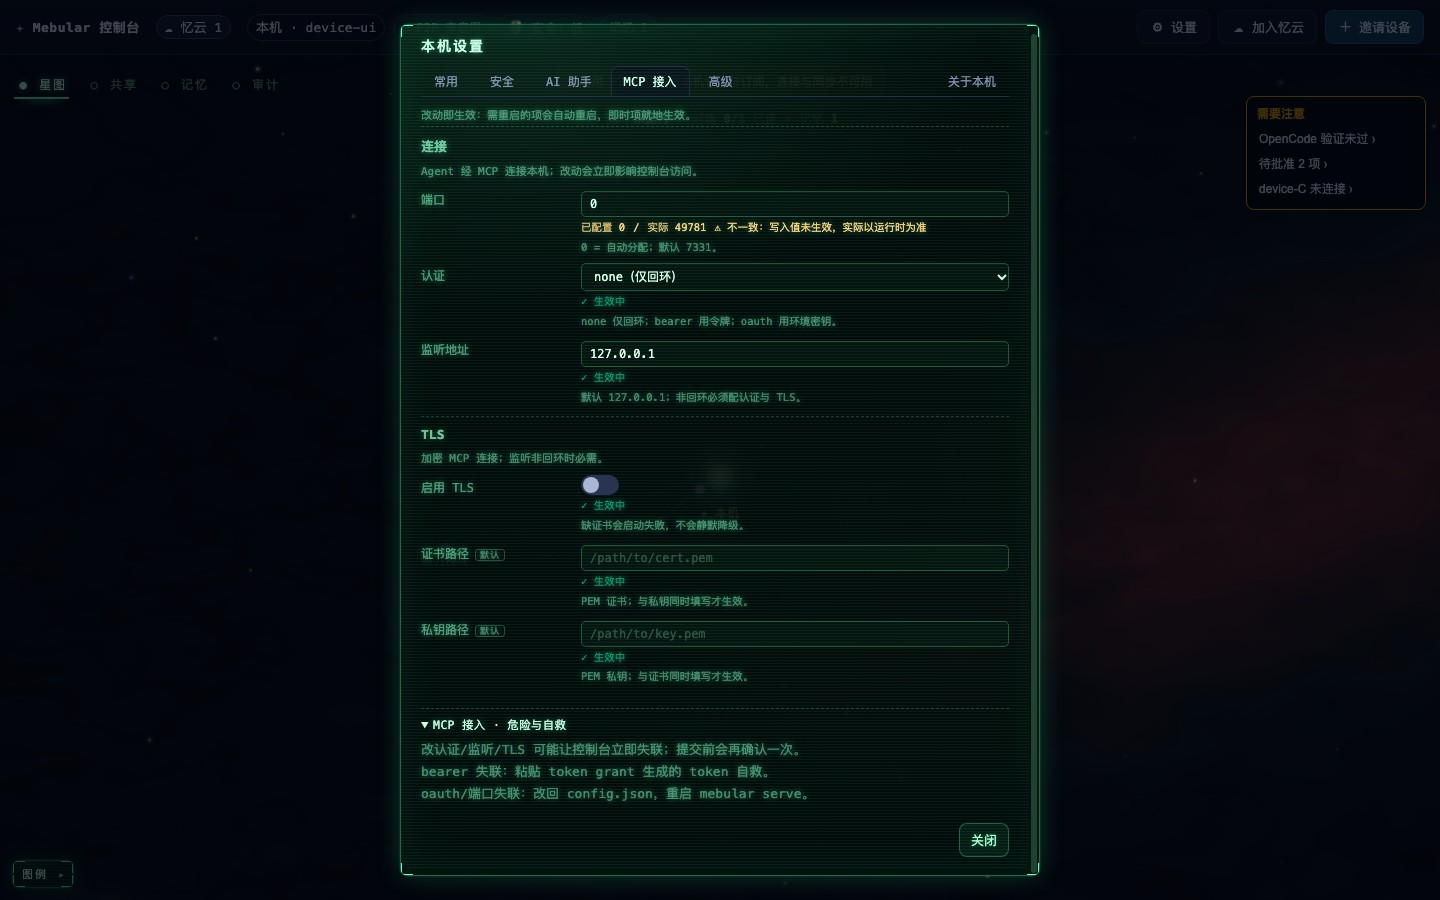
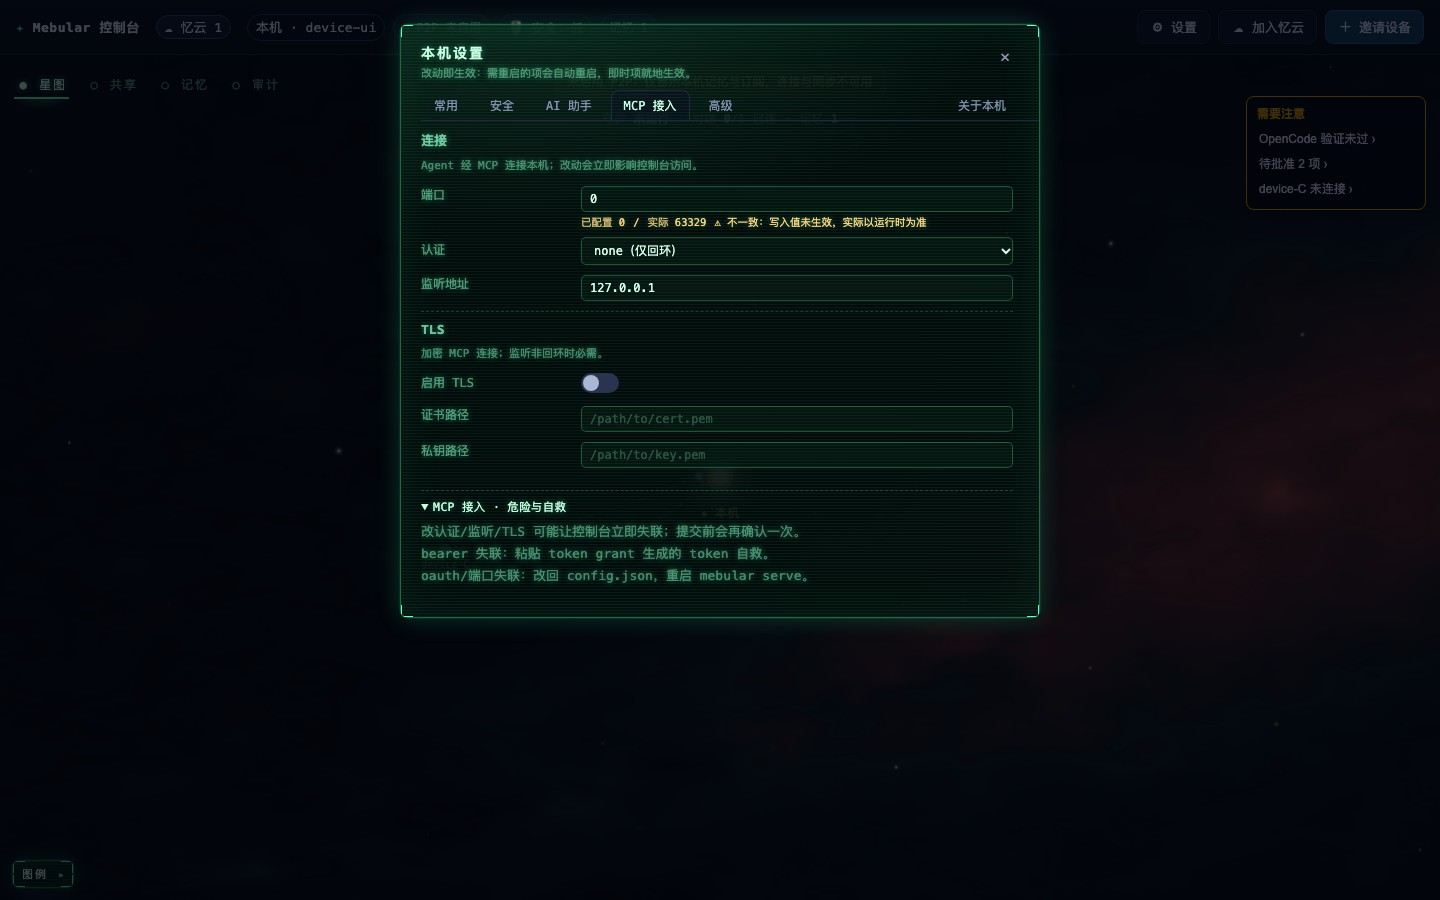
fix(console): compact settings tip, field hints, and edge scrollbar

diff --git a/packages/console/console.js b/packages/console/console.js
@@ -989,9 +989,8 @@ function runtimeCompareLine(field) {
   const showReason = reason.length > 0 && !infoReason && !boolOff;
   const pendingItem = pendingRestartItems().find((item) => item.path === field.path) ?? null;
   const normal = !mismatch && !showReason && !pendingItem;
-  if (normal) {
-    return `<p class="cfg-effective" data-cfg-state="ok"><span class="cfg-ok">✓ 生效中</span></p>`;
-  }
+  // 常态不占行：没有异常就是生效；只有待重启/不一致/未生效时才在字段下展开。
+  if (normal) return '';
   return `<p class="cfg-effective${mismatch ? ' is-mismatch' : ''}" data-cfg-state="exception">`
     + `<span><span class="cfg-eff-key">已配置</span> ${escapeHtml(formatRuntimeValue(configured))}</span>`
     + '<span>/</span>'
@@ -1026,11 +1025,17 @@ function renderCfgField(field) {
       : field.type === 'select' ? (typeof initial.value === 'string' ? initial.value : field.options[0][0])
       : (typeof initial.value === 'string' ? initial.value : ''));
   const id = `cfg-${field.path.replace(/\./g, '-')}`;
+  const helpTitle = [field.help, field.warn].filter(Boolean).join(' ');
+  const controlTitle = helpTitle ? ` title="${escapeHtml(helpTitle)}"` : '';
+  // 空输入时把「默认值 / 短提示」收进 placeholder；有值时 placeholder 不显示，帮助在聚焦时展开。
+  const defaultHint = initial.isDefault && field.default !== null && field.default !== undefined
+    ? `默认 ${field.default}` : '';
+  const placeholderText = field.placeholder || defaultHint || field.help || '';
   let control;
   if (field.type === 'bool') {
-    control = `<label class="toggle cfg-toggle"><input id="${id}" type="checkbox" data-cfg-path="${escapeHtml(field.path)}" ${value ? 'checked' : ''}><span class="slider"></span></label>`;
+    control = `<label class="toggle cfg-toggle"${controlTitle}><input id="${id}" type="checkbox" data-cfg-path="${escapeHtml(field.path)}" ${value ? 'checked' : ''}><span class="slider"></span></label>`;
   } else if (field.type === 'select') {
-    control = `<select id="${id}" class="crt-input" data-cfg-path="${escapeHtml(field.path)}">`
+    control = `<select id="${id}" class="crt-input" data-cfg-path="${escapeHtml(field.path)}"${controlTitle}>`
       + field.options.map(([v, label]) => `<option value="${escapeHtml(v)}" ${v === value ? 'selected' : ''}>${escapeHtml(label)}</option>`).join('')
       + '</select>';
   } else {
@@ -1039,11 +1044,13 @@ function renderCfgField(field) {
       field.type === 'number' || field.type === 'minutes' ? `step="${field.step ?? 1}"` : '',
       field.min !== undefined ? `min="${field.min}"` : '',
       field.max !== undefined ? `max="${field.max}"` : '',
-      field.placeholder ? `placeholder="${escapeHtml(field.placeholder)}"` : '',
+      placeholderText ? `placeholder="${escapeHtml(placeholderText)}"` : '',
+      controlTitle,
     ].filter(Boolean).join(' ');
     control = `<input id="${id}" class="crt-input cfg-input" type="${type}" data-cfg-path="${escapeHtml(field.path)}" value="${escapeHtml(String(value))}" ${attrs} />`;
   }
-  const defaultTag = initial.isDefault ? '<span class="cfg-default">默认</span>' : '';
+  const hasDefault = field.default !== null && field.default !== undefined && field.default !== '';
+  const defaultTag = initial.isDefault && hasDefault ? '<span class="cfg-default">默认</span>' : '';
   const warnMark = field.warn ? '<span class="cfg-warn-mark" title="风险说明" aria-label="有风险说明">⚠</span>' : '';
   const foldedReason = runtimeFoldedReason(field);
   const helpBits = [
@@ -1207,7 +1214,6 @@ function renderSettings(activeTab = state.settingsTab ?? 'common') {
         <div class="settings-tabs" role="tablist" aria-label="设置页签">${IA_TABS.map(tabButton).join('')}${
           IA_SETTINGS_EXTRA.map((item) => `<button class="settings-tab settings-tab-extra" type="button" data-settings-extra="${escapeHtml(item.opens)}">${escapeHtml(item.label)}</button>`).join('')
         }</div>
-        <p class="settings-note settings-apply-note muted">改动即生效：需重启的项会自动重启，即时项就地生效。</p>
         <div class="settings-scroll">
           ${panel('common', '<section class="settings-section" data-settings-common-status><h3>本机状态 <span class="badge badge-muted">只读</span></h3><p class="muted">?mock=1 仅提供安全卡与只读演示；可编辑设置需连接真实守护。</p></section>')}
           ${panel('security', `<section id="settings-security-slot" class="settings-slot" data-settings-slot="security" data-security-level="${escapeHtml(state.security?.level ?? 'low')}" tabindex="-1">${securityCardHtml()}</section>`)}
@@ -1231,7 +1237,6 @@ function renderSettings(activeTab = state.settingsTab ?? 'common') {
     <div class="settings-tabs" role="tablist" aria-label="设置页签">${IA_TABS.map(tabButton).join('')}${
       IA_SETTINGS_EXTRA.map((item) => `<button class="settings-tab settings-tab-extra" type="button" data-settings-extra="${escapeHtml(item.opens)}">${escapeHtml(item.label)}</button>`).join('')
     }</div>
-    <p class="settings-note settings-apply-note muted">改动即生效：需重启的项会自动重启，即时项就地生效。</p>
     <div class="settings-scroll">
     ${panel('common', `
       <div class="settings-resident" id="settings-resident">${serviceRowHtml(state.service, state.serviceMsg)}</div>

diff --git a/packages/console/console.css b/packages/console/console.css
@@ -362,9 +362,11 @@ select {
 body.modal-open { overflow: hidden; }
 .modal-actions { display: flex; justify-content: flex-end; gap: 8px; margin-top: 18px; }
 
-/* U-3 · 设置壳：标题栏固定，提示独立下划线，只有其下内容滚动 */
-.modal-head { display: flex; align-items: center; justify-content: space-between; gap: 12px; margin: 0 0 10px; }
+/* U-3 · 设置壳：提示收进标题，页签固定，只有其下内容滚动 */
+.modal-head { display: flex; align-items: flex-start; justify-content: space-between; gap: 12px; margin: 0 0 8px; }
+.modal-heading { min-width: 0; }
 .modal-head h2 { margin: 0; }
+.modal-head .settings-apply-note { margin: 3px 0 0; max-width: 62ch; font-size: 11px; line-height: 1.45; }
 .modal-x {
   display: inline-flex; align-items: center; justify-content: center;
   width: 28px; height: 28px; flex: 0 0 auto; padding: 0;
@@ -374,13 +376,22 @@ body.modal-open { overflow: hidden; }
 }
 .modal-x:hover { color: var(--crt-bright, #9dffcf); border-color: var(--border); background: rgba(10, 16, 32, 0.55); }
 .modal-x:focus-visible { outline: 2px solid var(--accent); outline-offset: 2px; }
-.modal-box.modal-settings { display: flex; flex-direction: column; overflow: hidden; padding: 18px 20px; }
+.modal-box.modal-settings { display: flex; flex-direction: column; overflow: hidden; padding: 18px 0 18px 20px; scrollbar-gutter: auto; }
+.modal-settings .modal-head, .modal-settings .settings-tabs { padding-right: 20px; }
 .modal-settings #settings-body { display: flex; flex-direction: column; flex: 1 1 auto; min-height: 0; }
-.modal-settings .settings-tabs { flex: 0 0 auto; margin: 0 0 8px; }
-.modal-settings .settings-apply-note { flex: 0 0 auto; align-self: stretch; width: 100%; max-width: none; margin: 0; padding: 0 0 9px; border-bottom: 1px dashed rgba(80, 255, 170, 0.22); }
-.settings-scroll { flex: 1 1 auto; min-height: 0; overflow-y: auto; overscroll-behavior: contain; padding: 10px 2px 12px 0; scrollbar-gutter: stable; }
+.modal-settings .settings-tabs { flex: 0 0 auto; margin: 0; }
+/* 滚动条贴设置框右边缘：滚动容器贴边，内容右侧留 20px；thumb 收细。 */
+.settings-scroll { flex: 1 1 auto; min-height: 0; overflow-y: auto; overscroll-behavior: contain; padding: 10px 20px 12px 0; scrollbar-gutter: stable; }
+.settings-scroll::-webkit-scrollbar { width: 6px; }
+.settings-scroll::-webkit-scrollbar-track { background: transparent; margin: 6px 0; }
+.settings-scroll::-webkit-scrollbar-thumb { border: 0; border-radius: 999px; background: rgba(140, 255, 200, 0.18); }
+.settings-scroll::-webkit-scrollbar-thumb:hover { border: 0; background: rgba(140, 255, 200, 0.32); }
 .settings-scroll > .settings-panel > .settings-section:first-child,
 .settings-scroll > .settings-panel > .settings-slot:first-child > .settings-section:first-child { border-top: 0; padding-top: 0; }
+/* 字段帮助默认收起；聚焦/警告时再出现，空值提示由 placeholder 承担。 */
+.cfg-row .cfg-help { display: none; }
+.cfg-row:focus-within .cfg-help,
+.cfg-row .cfg-help.cfg-warn { display: block; }
 
 /* ---------- 向导 ---------- */
 .modal-box-wide { width: min(640px, 94vw); }

diff --git a/packages/console/index.html b/packages/console/index.html
@@ -160,7 +160,10 @@
   <div id="settings" class="modal" hidden>
     <div class="modal-box modal-box-wide modal-settings crt-surface crt-corners" role="dialog" aria-modal="true" aria-label="本机设置">
       <div class="modal-head">
-        <h2>本机设置</h2>
+        <div class="modal-heading">
+          <h2>本机设置</h2>
+          <p class="settings-apply-note muted">改动即生效：需重启的项会自动重启，即时项就地生效。</p>
+        </div>
         <button id="settings-close" class="modal-x" type="button" title="关闭" aria-label="关闭设置">✕</button>
       </div>
       <div id="settings-body"></div>

diff --git a/docs/console/screens/u3/README.md b/docs/console/screens/u3/README.md
@@ -25,7 +25,8 @@
 
 **MCP**
 
-- 删除鉴权方式 300+ 字长警告与 2 段危险说明；改为字段一行帮助 + 折叠内 3 行：后果、bearer 自救、oauth/端口失联改回配置。
+- 删除鉴权方式 300+ 字长警告与 2 段危险说明；折叠内保留 3 行：后果、bearer 自救、oauth/端口失联改回配置。
+- 字段帮助默认收起，聚焦时才出现；空值把默认值/短提示放进 placeholder；常态不再显示「生效中」，只有待重启/不一致/未生效才占行。
 - 统一「认证」（不再用“鉴权”）；字段标签统一为「证书路径 / 私钥路径」。
 - 保留 `token grant`、`config.json`、`.bak` 与自锁确认；风险与自救可达。
 
@@ -36,7 +37,7 @@
 - 常驻服务长说明、绑定地址长解释压成一行；「周期反熵」显示名改为「自动对账」。
 - 诊断里的恢复指引压缩，但保留 `MCP_INSECURE_CONFIG` / `MCP_STORAGE_LOCKED`、OAuth env 名与 `token grant`。
 
-## 3. 文本量（可见、去空白；不含隐藏折叠）
+## 3. 文本量（DOM 文本、去空白；不含折叠；隐藏帮助仍计入，视觉可见更短）
 
 | Tab | before | after | 目标 |
 |---|---:|---:|---:|
@@ -76,5 +77,6 @@
 - 统一外壳：所有 `.modal-box` 都带 `crt-surface crt-corners`；没有裸 `modal-box`。
 - 小弹窗（`modal-center`，520px）：邀请、新建记忆域、切换忆云、安全操作/批准、手动连接、handoff、通用确认、bearer 令牌输入。
 - 大面板（顶部对齐 + 内部滚动）：设置、关于本机、加入忆云（640px）、首启引导（640px）。
+- 设置面板：标题下常驻一行「改动即生效」；页签固定；只有页签下的内容滚动；滚动条 6px 贴设置框右边缘；关闭收进右上角 X，底部关闭移除。
 - 标题/说明/字段/动作：标题（可带 `crt-tag`）+ 一句 `.modal-note` + `.field` 整行输入 + 右对齐 `.modal-actions`。
-- 落地位置：`packages/console/index.html` 的 `.modal` 标记 + `packages/console/console.css` 的 `.modal.modal-center` / `.modal-box-wide` / `.field`；`verify-console-ui.mjs` 断言对齐与宽度不漂移。
+- 落地位置：`packages/console/index.html` 的 `.modal` 标记 + `packages/console/console.css` 的 `.modal.modal-center` / `.modal-box-wide` / `.modal-settings` / `.settings-scroll` / `.field`；`verify-console-ui.mjs` 断言对齐、宽度与滚动区不漂移。
